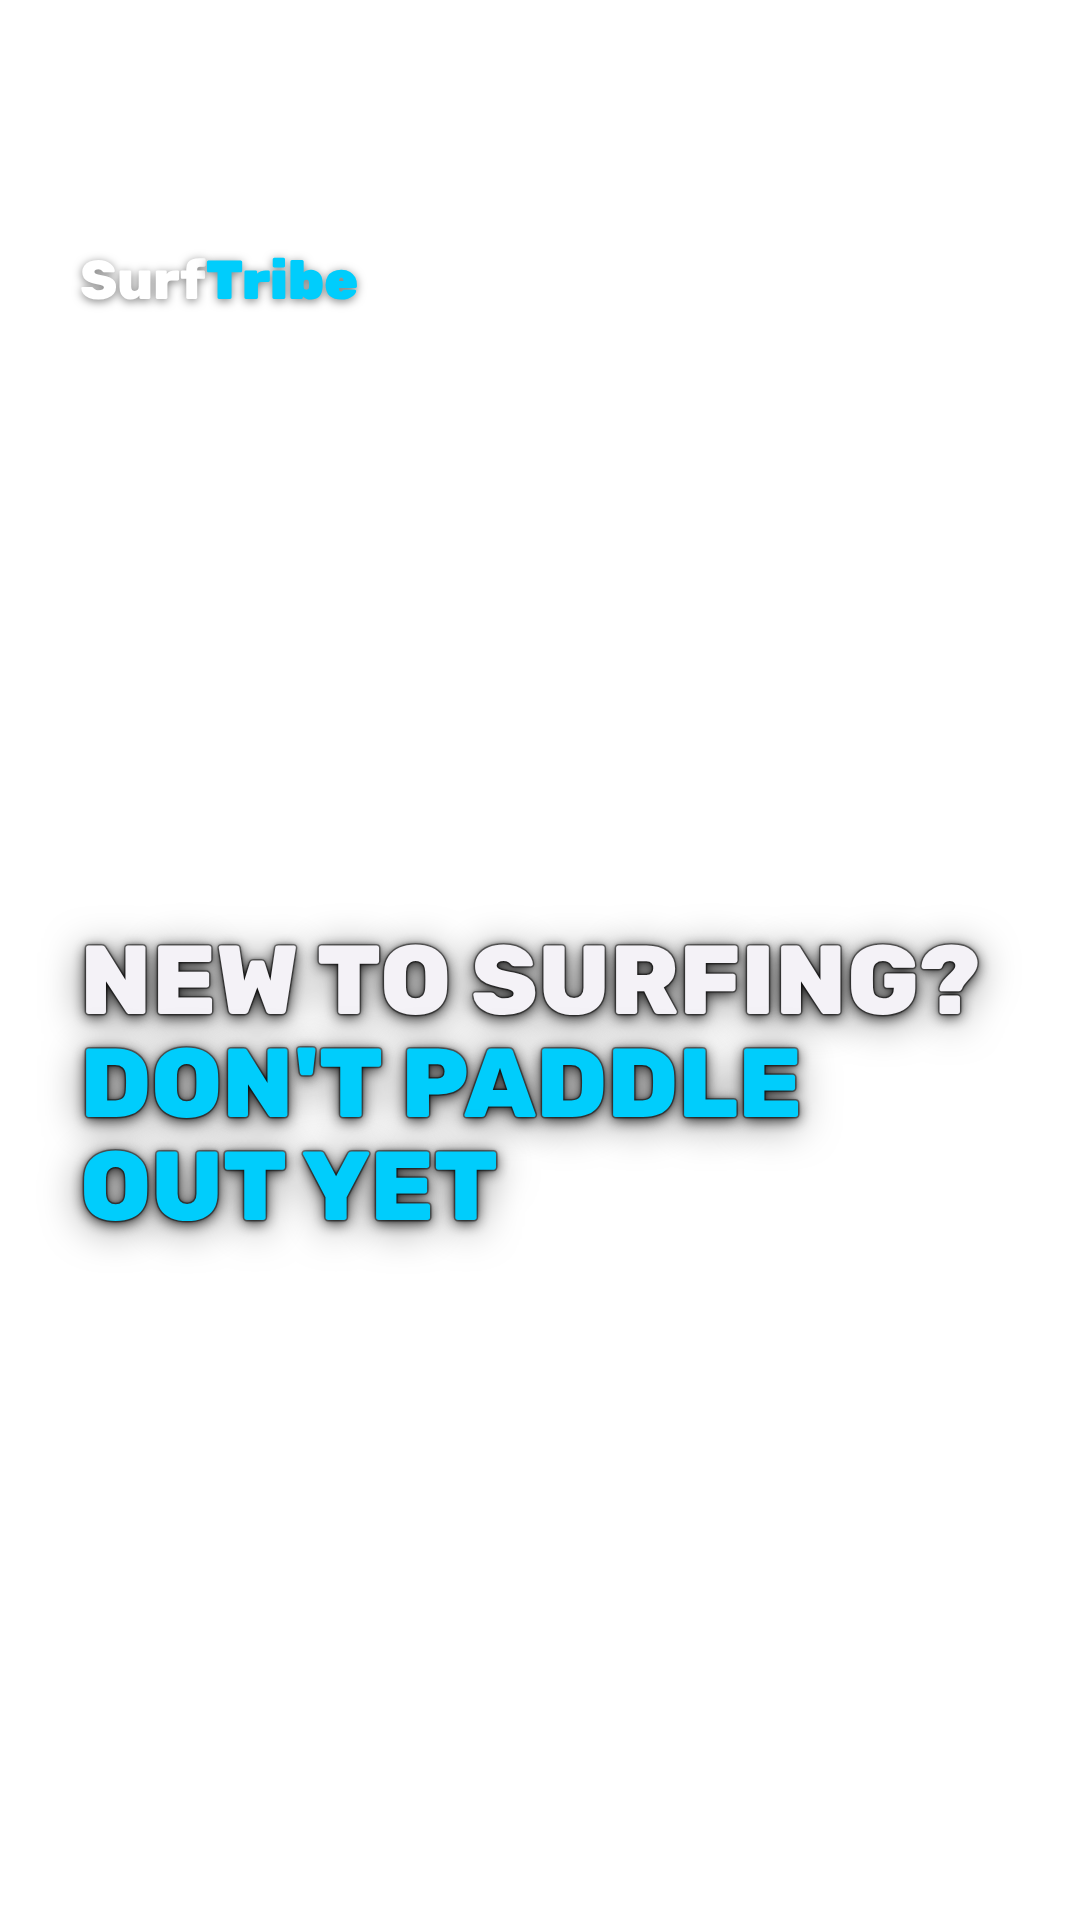
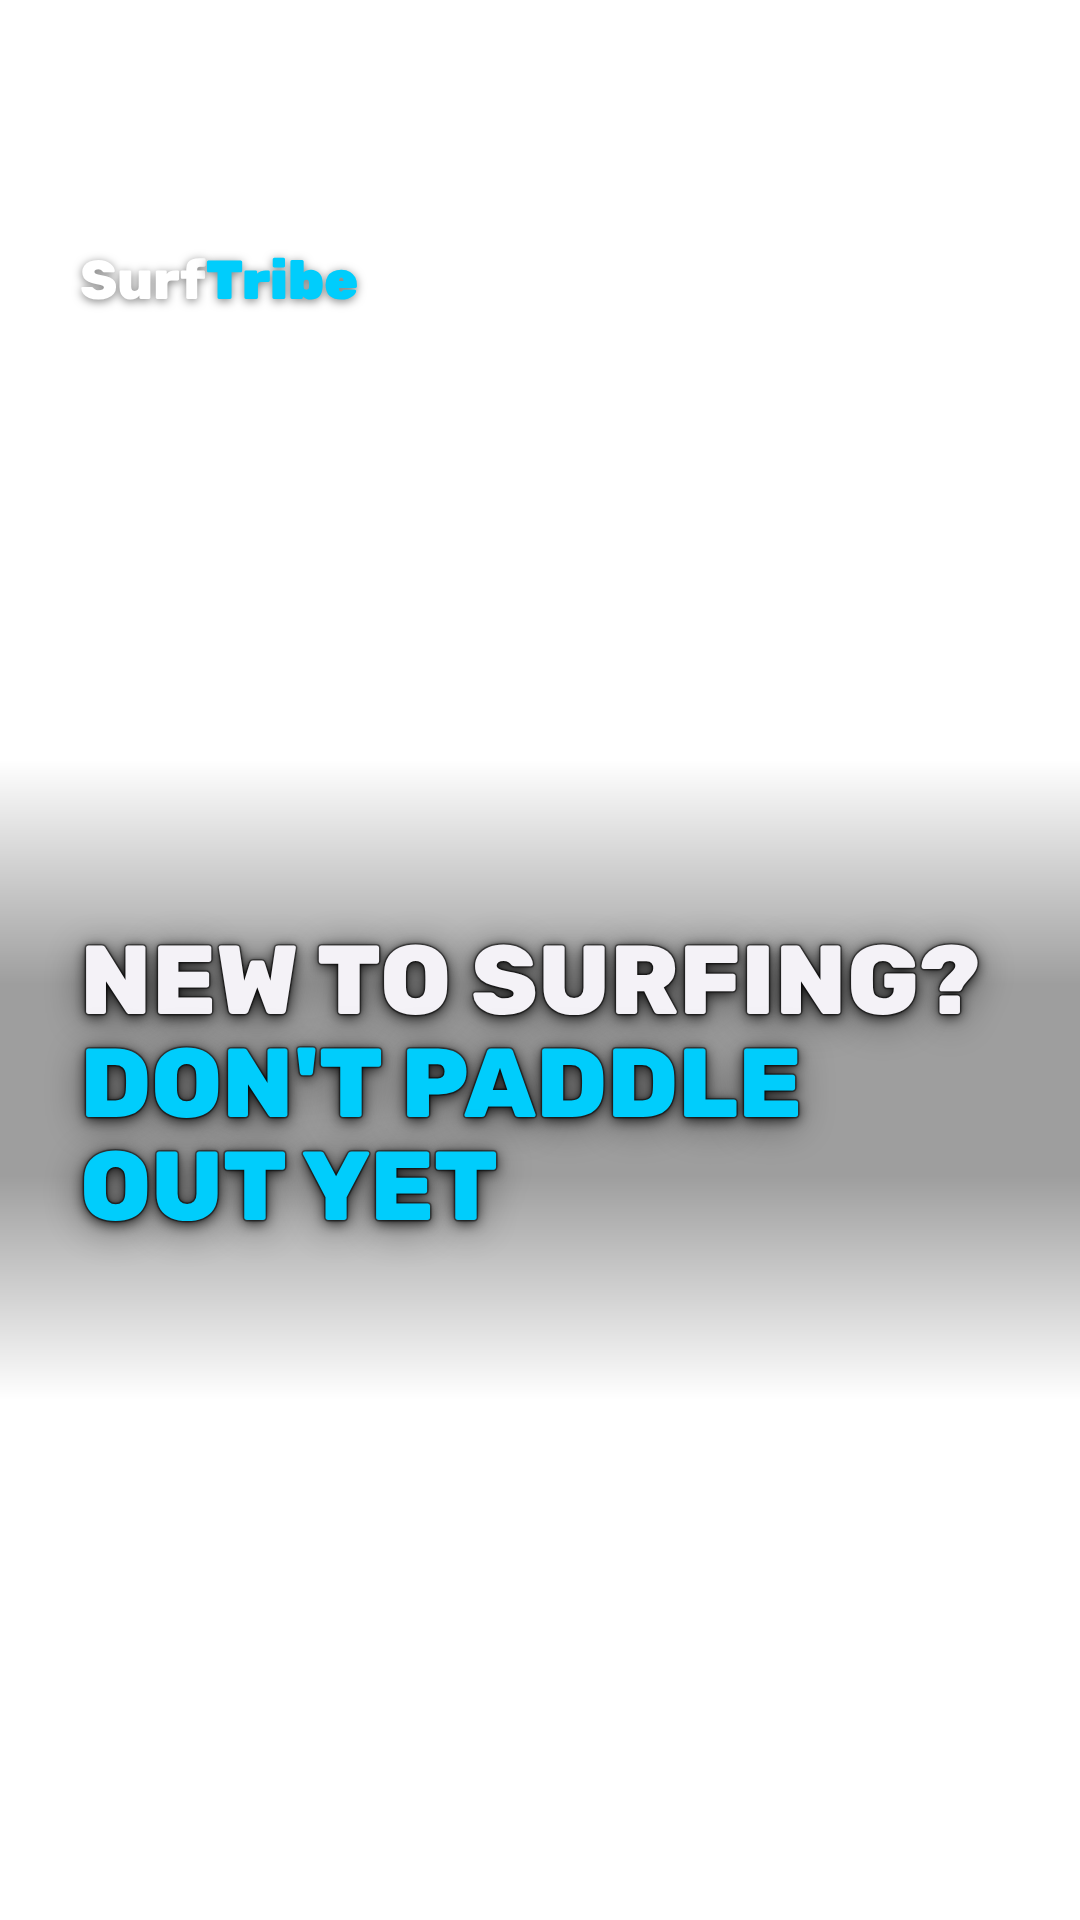
CI EN variant B: soft dark band under the hook for contrast on water
Claude-Session: https://claude.ai/code/session_01XnbpyAhss2otZgNDdvqCxE

Changed region(s): [[0.0, 0.4062, 1.0, 0.7188]]

diff --git a/tools/reel/dub/ci/en/render.py b/tools/reel/dub/ci/en/render.py
@@ -16,7 +16,7 @@ jobs = json.loads(sys.argv[1])
 with sync_playwright() as p:
     b = p.chromium.launch(); pg = b.new_page(viewport={'width':1080,'height':1920})
     for name, hook, sub, top in jobs:
-        body = '<div class=mark>Surf<b>Tribe</b></div>' + f'<div class=hook>{hook}</div>' + (f'<div class=sub><span>{sub}</span></div>' if sub else '')
+        body = ('<div style="position:absolute;left:0;right:0;top:760px;height:640px;background:linear-gradient(rgba(0,0,0,0),rgba(0,0,0,.38) 35%,rgba(0,0,0,.38) 65%,rgba(0,0,0,0))"></div>' if name=='ovA' else '') + '<div class=mark>Surf<b>Tribe</b></div>' + f'<div class=hook>{hook}</div>' + (f'<div class=sub><span>{sub}</span></div>' if sub else '')
         pg.set_content(page(body, top)); pg.wait_for_timeout(200)
         pg.screenshot(path=f'/tmp/en/ov/{name}.png', omit_background=True)
     b.close()
